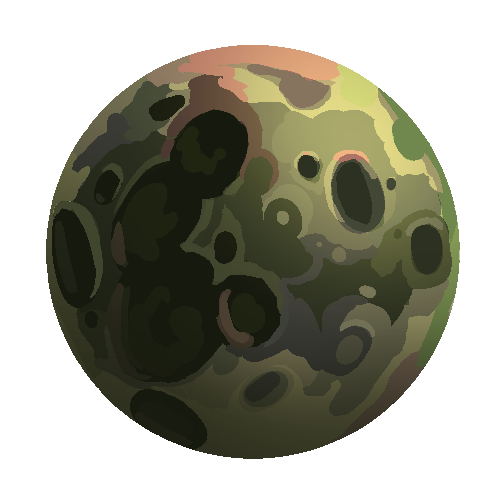
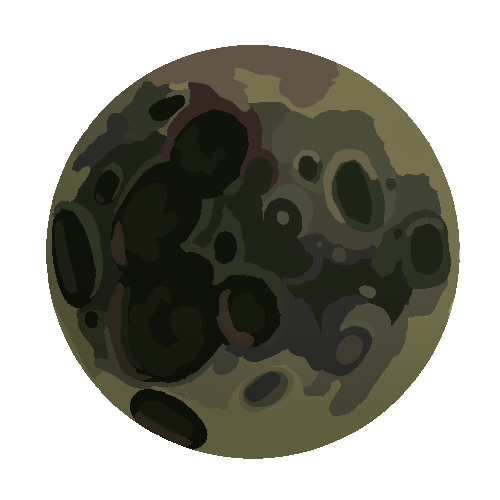
+ Updates to Orator's Sky and Selenic Menu THeme

Changed region(s): [[0.21, 0.09, 0.93, 0.93], [0.09, 0.6, 0.27, 0.84]]

diff --git a/Content/Skies/OratorSky.cs b/Content/Skies/OratorSky.cs
@@ -35,7 +35,9 @@ namespace Windfall.Content.Skies
         public override Color OnTileColor(Color inColor) => Color.Lerp(inColor, Color.AliceBlue * 0.5f, opacity);
         public override void Draw(SpriteBatch spriteBatch, float minDepth, float maxDepth)
         {
-            Color oratorGreen = new(117, 255, 159);            
+            Color oratorGreen = new(117, 255, 159);
+            Vector2 resolutionScale = new(Main.screenWidth / 1366f, Main.screenHeight / 768);
+
             spriteBatch.Draw(TextureAssets.BlackTile.Value, new Rectangle(0, 0, Main.screenWidth * 2, Main.screenHeight * 2), Color.Black * opacity);
 
             if (Main.netMode != NetmodeID.Server)
@@ -59,46 +61,48 @@ namespace Windfall.Content.Skies
 
                 #region Back Clouds
                 float cloudHeight = bgTop + (Main.screenHeight * 1.15f);
-                float cloudScale = 0.45f;
+                float cloudScale = 0.5f * resolutionScale.X;
 
                 Texture2D CloudBack = (Texture2D)ModContent.Request<Texture2D>("Windfall/Assets/Skies/OratorCloudsBack", AssetRequestMode.ImmediateLoad);
-                float backgroundOffset = GetBackgroundOffset(0.1f, CloudBack);
+                float backgroundOffset = GetBackgroundOffset(0.1f);
                 spriteBatch.Draw(CloudBack, new Vector2(GetBoundedX(backgroundOffset, cloudScale), cloudHeight - (450 * cloudScale)), CloudBack.Frame(), Color.Gray * opacity, 0f, new Vector2(CloudBack.Width / 2, CloudBack.Height / 2), cloudScale, SpriteEffects.None, 0f);
                 spriteBatch.Draw(CloudBack, new Vector2(GetBoundedX((backgroundOffset - (CloudBack.Width * (cloudScale))), cloudScale), cloudHeight - (450 * cloudScale)), CloudBack.Frame(), Color.Gray * opacity, 0f, new Vector2(CloudBack.Width / 2, CloudBack.Height / 2), cloudScale, SpriteEffects.None, 0f);
                 spriteBatch.Draw(CloudBack, new Vector2(GetBoundedX((backgroundOffset + (CloudBack.Width * (cloudScale))), cloudScale), cloudHeight - (450 * cloudScale)), CloudBack.Frame(), Color.Gray * opacity, 0f, new Vector2(CloudBack.Width / 2, CloudBack.Height / 2), cloudScale, SpriteEffects.None, 0f);
                 #endregion
 
                 #region Moon
-                Vector2 position = new(Main.screenWidth / 2, bgTop + Main.screenHeight / 1.25f);
+                Vector2 position = new(Main.screenWidth / 2f, bgTop + Main.screenHeight / 1.5f);
                 Texture2D bloomCircle = ModContent.Request<Texture2D>("CalamityMod/Particles/LargeBloom", AssetRequestMode.ImmediateLoad).Value;
 
-                spriteBatch.UseBlendState(BlendState.Additive);
-                Vector2 halfSizeTexture = new(bloomCircle.Width / 2, bloomCircle.Height / 2);
-                spriteBatch.Draw(bloomCircle, position, null, oratorGreen * opacity * ((float)(Math.Sin(counter/ 20D) / 4f + 0.75f)), 0f, bloomCircle.Size() / 2f, 2.8f, SpriteEffects.None, 0f);
+                spriteBatch.End();
+                spriteBatch.Begin(SpriteSortMode.Deferred, BlendState.Additive, SamplerState.LinearClamp, DepthStencilState.None, Main.Rasterizer, null, Main.UIScaleMatrix);
+                spriteBatch.Draw(bloomCircle, position, null, Color.AliceBlue * opacity * ((float)(Math.Sin(counter / 20D) / 4f + 0.75f)), 0f, bloomCircle.Size() / 2f, 2.4f * resolutionScale.X, SpriteEffects.None, 0f);
 
                 Texture2D bloomRing = ModContent.Request<Texture2D>("Windfall/Assets/Skies/OratorMoonBloom2", AssetRequestMode.ImmediateLoad).Value;
-                halfSizeTexture = new(bloomRing.Width / 2, bloomRing.Height / 2);
-                spriteBatch.Draw(bloomRing, position, null, Color.LightCyan * opacity, counter / 100f, halfSizeTexture, 1.6375f, SpriteEffects.None, 0f);
+                Vector2 halfSizeTexture = new(bloomRing.Width / 2, bloomRing.Height / 2);
+                spriteBatch.Draw(bloomRing, position, null, Color.DarkOliveGreen * opacity, counter / 100f, halfSizeTexture, 1.4375f * resolutionScale.X, SpriteEffects.None, 0f);
+                spriteBatch.End();
+                spriteBatch.Begin(SpriteSortMode.Deferred, BlendState.AlphaBlend, SamplerState.LinearClamp, DepthStencilState.None, Main.Rasterizer, null, Main.UIScaleMatrix);
 
-                spriteBatch.UseBlendState(BlendState.NonPremultiplied);
                 Texture2D moon = ModContent.Request<Texture2D>("Windfall/Assets/Skies/OratorMoon", AssetRequestMode.ImmediateLoad).Value;
                 halfSizeTexture = new(moon.Width / 2, moon.Height / 2);
-                spriteBatch.Draw(moon, position, null, Color.White * opacity, 0f, halfSizeTexture, 1.625f, SpriteEffects.None, 0f);
+                spriteBatch.Draw(moon, position, null, Color.White * opacity, 0f, halfSizeTexture, 1.4f * resolutionScale.X, SpriteEffects.None, 0f);
                 #endregion
 
                 #region Front Clouds       
                 /*
-                Texture2D CloudMiddle = (Texture2D)ModContent.Request<Texture2D>("Windfall/Assets/Skies/OratorCloudsMiddle", AssetRequestMode.ImmediateLoad);
-                backgroundOffset = GetBackgroundOffset(0.2f, CloudMiddle);
-                spriteBatch.Draw(CloudMiddle, new Vector2(GetBoundedX(backgroundOffset, cloudScale), cloudHeight), CloudMiddle.Frame(), Color.Gray * opacity, 0f, new Vector2(CloudMiddle.Width / 2, CloudMiddle.Height / 2), cloudScale, SpriteEffects.None, 0f);
-                spriteBatch.Draw(CloudMiddle, new Vector2(GetBoundedX((backgroundOffset - (CloudMiddle.Width * (cloudScale))), cloudScale), cloudHeight), CloudMiddle.Frame(), Color.Gray * opacity, 0f, new Vector2(CloudMiddle.Width / 2, CloudMiddle.Height / 2), cloudScale, SpriteEffects.None, 0f);
-                spriteBatch.Draw(CloudMiddle, new Vector2(GetBoundedX((backgroundOffset + (CloudMiddle.Width * (cloudScale))), cloudScale), cloudHeight), CloudMiddle.Frame(), Color.Gray * opacity, 0f, new Vector2(CloudMiddle.Width / 2, CloudMiddle.Height / 2), cloudScale, SpriteEffects.None, 0f);
-                */
+            Texture2D CloudMiddle = (Texture2D)ModContent.Request<Texture2D>("Windfall/Assets/Skies/OratorCloudsMiddle", AssetRequestMode.ImmediateLoad);
+            backgroundOffset = GetBackgroundOffset(0.2f, CloudMiddle);
+            spriteBatch.Draw(CloudMiddle, new Vector2(GetBoundedX(backgroundOffset, cloudScale), cloudHeight), CloudMiddle.Frame(), Color.Gray, 0f, new Vector2(CloudMiddle.Width / 2, CloudMiddle.Height / 2), cloudScale, SpriteEffects.None, 0f);
+            spriteBatch.Draw(CloudMiddle, new Vector2(GetBoundedX((backgroundOffset - (CloudMiddle.Width * (cloudScale))), cloudScale), cloudHeight), CloudMiddle.Frame(), Color.Gray, 0f, new Vector2(CloudMiddle.Width / 2, CloudMiddle.Height / 2), cloudScale, SpriteEffects.None, 0f);
+            spriteBatch.Draw(CloudMiddle, new Vector2(GetBoundedX((backgroundOffset + (CloudMiddle.Width * (cloudScale))), cloudScale), cloudHeight), CloudMiddle.Frame(), Color.Gray, 0f, new Vector2(CloudMiddle.Width / 2, CloudMiddle.Height / 2), cloudScale, SpriteEffects.None, 0f);
+            */
                 Texture2D CloudFront = (Texture2D)ModContent.Request<Texture2D>("Windfall/Assets/Skies/OratorCloudsFront", AssetRequestMode.ImmediateLoad);
-                backgroundOffset = GetBackgroundOffset(0.3f, CloudFront);
-                spriteBatch.Draw(CloudFront, new Vector2(GetBoundedX(backgroundOffset, cloudScale), cloudHeight - (190 * cloudScale)), CloudFront.Frame(), Color.Gray * opacity, 0f, new Vector2(CloudFront.Width / 2, CloudFront.Height / 2), cloudScale, SpriteEffects.None, 0f);
-                spriteBatch.Draw(CloudFront, new Vector2(GetBoundedX((backgroundOffset - (CloudFront.Width * (cloudScale))), cloudScale), cloudHeight - (190 * cloudScale)), CloudFront.Frame(), Color.Gray * opacity, 0f, new Vector2(CloudFront.Width / 2, CloudFront.Height / 2), cloudScale, SpriteEffects.None, 0f);
-                spriteBatch.Draw(CloudFront, new Vector2(GetBoundedX((backgroundOffset + (CloudFront.Width * (cloudScale))), cloudScale), cloudHeight - (190 * cloudScale)), CloudFront.Frame(), Color.Gray * opacity, 0f, new Vector2(CloudFront.Width / 2, CloudFront.Height / 2), cloudScale, SpriteEffects.None, 0f);
+                backgroundOffset = GetBackgroundOffset(0.3f);
+                //cloudHeight = Main.screenHeight / -3.5f + (Main.screenHeight * 1.25f);
+                spriteBatch.Draw(CloudFront, new Vector2(GetBoundedX(backgroundOffset, cloudScale), cloudHeight - (250 * cloudScale)), CloudFront.Frame(), Color.Gray * opacity, 0f, new Vector2(CloudFront.Width / 2, CloudFront.Height / 2), cloudScale, SpriteEffects.None, 0f);
+                spriteBatch.Draw(CloudFront, new Vector2(GetBoundedX(backgroundOffset - (CloudFront.Width * cloudScale), cloudScale), cloudHeight - (250 * cloudScale)), CloudFront.Frame(), Color.Gray * opacity, 0f, new Vector2(CloudFront.Width / 2, CloudFront.Height / 2), cloudScale, SpriteEffects.None, 0f);
+                spriteBatch.Draw(CloudFront, new Vector2(GetBoundedX(backgroundOffset + (CloudFront.Width * cloudScale), cloudScale), cloudHeight - (250 * cloudScale)), CloudFront.Frame(), Color.Gray * opacity, 0f, new Vector2(CloudFront.Width / 2, CloudFront.Height / 2), cloudScale, SpriteEffects.None, 0f);
                 #endregion
             }
         }
@@ -125,11 +129,13 @@ namespace Windfall.Content.Skies
             counter++;
         }
         public override float GetCloudAlpha() => 1f;
-        private float GetBackgroundOffset(float parallaxMultiplier, Texture2D tex)
+        private float GetBackgroundOffset(float parallaxMultiplier)
         {
             windOffset += (Main.windSpeedCurrent);
             return -100000 - (((Main.LocalPlayer.Center.X / 10) - windOffset) * parallaxMultiplier);
         }
-        private static float GetBoundedX(float initialX, float scale) => (initialX % (Main.screenWidth * (3.425f * scale)) + (Main.screenWidth * (2.8f * scale)));
+        private static float GetBoundedX(float initialX, float scale) => (initialX % (Main.screenWidth * (2.435f * scale)) + (Main.screenWidth * (1.9f * scale)));
+        //        private static float GetBoundedX(float initialX, float scale) => (initialX % (Main.screenWidth * (3.425f * scale)) + (Main.screenWidth * (2.8f * scale)));
+
     }
 }

diff --git a/Content/UI/MenuThemes/Selenic/SelenicMenu.cs b/Content/UI/MenuThemes/Selenic/SelenicMenu.cs
@@ -1,14 +1,4 @@
-using System;
-using System.Collections.Generic;
-using System.Diagnostics.Metrics;
-using System.Linq;
-using System.Text;
-using System.Threading.Tasks;
-using CalamityMod.MainMenu;
-using Windfall.Content.NPCs.Bosses.Orator;
-using Windfall.Content.UI.BossBars;
-
-namespace Windfall.Content.UI.MenuThemes.Selenic
+namespace Windfall.Content.UI.MenuThemes.Selenic
 {
     public class SelenicMenu : ModMenu
     {
@@ -26,11 +16,11 @@ namespace Windfall.Content.UI.MenuThemes.Selenic
 
         public override bool PreDrawLogo(SpriteBatch spriteBatch, ref Vector2 logoDrawCenter, ref float logoRotation, ref float logoScale, ref Color drawColor)
         {
+            Vector2 resolutionScale = new(Main.screenWidth / 1366f, Main.screenHeight / 768);
+
             #region Orator Background Stuffs
             Color oratorGreen = new(117, 255, 159);
             spriteBatch.Draw(TextureAssets.BlackTile.Value, new Rectangle(0, 0, Main.screenWidth * 2, Main.screenHeight * 2), Color.Black);
-
-            float bgTop = Main.screenHeight / -6f;
 
             #region Stars
             for (int i = 0; i < Main.star.Length; i++)
@@ -41,37 +31,40 @@ namespace Windfall.Content.UI.MenuThemes.Selenic
 
                 Texture2D t2D = TextureAssets.Star[star.type].Value;
                 Vector2 origin = new(t2D.Width * 0.5f, t2D.Height * 0.5f);
-                Vector2 pos = new(star.position.X + origin.X, star.position.Y + origin.Y + bgTop);
+                Vector2 pos = new(star.position.X + origin.X, star.position.Y + origin.Y);
                 spriteBatch.Draw(t2D, pos, new Rectangle(0, 0, t2D.Width, t2D.Height), Color.Yellow * star.twinkle, star.rotation, origin, star.scale * star.twinkle, SpriteEffects.None, 0f);
             }
             #endregion
 
             #region Back Clouds
-            float cloudHeight = bgTop * 2 + (Main.screenHeight * 1.25f);
-            float cloudScale = 0.45f;
+
+            float cloudHeight = Main.screenHeight / -3.5f + (Main.screenHeight * 1.25f);
+            float cloudScale = 0.5f * resolutionScale.X;
 
             Texture2D CloudBack = (Texture2D)ModContent.Request<Texture2D>("Windfall/Assets/Skies/OratorCloudsBack", AssetRequestMode.ImmediateLoad);
-            float backgroundOffset = GetBackgroundOffset(0.1f, CloudBack);
-            spriteBatch.Draw(CloudBack, new Vector2(GetBoundedX(backgroundOffset, cloudScale), cloudHeight - (450 * cloudScale)), CloudBack.Frame(), Color.Gray, 0f, new Vector2(CloudBack.Width / 2, CloudBack.Height / 2), cloudScale, SpriteEffects.None, 0f);
-            spriteBatch.Draw(CloudBack, new Vector2(GetBoundedX((backgroundOffset - (CloudBack.Width * (cloudScale))), cloudScale), cloudHeight - (450 * cloudScale)), CloudBack.Frame(), Color.Gray, 0f, new Vector2(CloudBack.Width / 2, CloudBack.Height / 2), cloudScale, SpriteEffects.None, 0f);
-            spriteBatch.Draw(CloudBack, new Vector2(GetBoundedX((backgroundOffset + (CloudBack.Width * (cloudScale))), cloudScale), cloudHeight - (450 * cloudScale)), CloudBack.Frame(), Color.Gray, 0f, new Vector2(CloudBack.Width / 2, CloudBack.Height / 2), cloudScale, SpriteEffects.None, 0f);
+            float backgroundOffset = GetBackgroundOffset(0.1f);
+            spriteBatch.Draw(CloudBack, new Vector2(GetBoundedX(backgroundOffset,                                  cloudScale), cloudHeight - (450 * cloudScale)), CloudBack.Frame(), Color.Gray, 0f, new Vector2(CloudBack.Width / 2, CloudBack.Height / 2), cloudScale, SpriteEffects.None, 0f);
+            spriteBatch.Draw(CloudBack, new Vector2(GetBoundedX(backgroundOffset - (CloudBack.Width * cloudScale), cloudScale), cloudHeight - (450 * cloudScale)), CloudBack.Frame(), Color.Gray, 0f, new Vector2(CloudBack.Width / 2, CloudBack.Height / 2), cloudScale, SpriteEffects.None, 0f);
+            spriteBatch.Draw(CloudBack, new Vector2(GetBoundedX(backgroundOffset + (CloudBack.Width * cloudScale), cloudScale), cloudHeight - (450 * cloudScale)), CloudBack.Frame(), Color.Gray, 0f, new Vector2(CloudBack.Width / 2, CloudBack.Height / 2), cloudScale, SpriteEffects.None, 0f);
             #endregion
 
             #region Moon
-            Vector2 position = new(Main.screenWidth / 2, bgTop + Main.screenHeight / 1.25f);
+            Vector2 position = new(Main.screenWidth / 2f, Main.screenHeight / 1.8f);
             Texture2D bloomCircle = ModContent.Request<Texture2D>("CalamityMod/Particles/LargeBloom", AssetRequestMode.ImmediateLoad).Value;
 
-            spriteBatch.UseBlendState(BlendState.Additive);
-            spriteBatch.Draw(bloomCircle, position, null, oratorGreen * ((float)(Math.Sin(counter / 20D) / 4f + 0.75f)), 0f, bloomCircle.Size() / 2f, 2.5f + 0.3f, SpriteEffects.None, 0f);
+            spriteBatch.End();
+            spriteBatch.Begin(SpriteSortMode.Deferred, BlendState.Additive, SamplerState.LinearClamp, DepthStencilState.None, Main.Rasterizer, null, Main.UIScaleMatrix);
+            spriteBatch.Draw(bloomCircle, position, null, Color.AliceBlue * ((float)(Math.Sin(counter / 20D) / 4f + 0.75f)), 0f, bloomCircle.Size() / 2f, 2.4f * resolutionScale.X, SpriteEffects.None, 0f);
 
             Texture2D bloomRing = ModContent.Request<Texture2D>("Windfall/Assets/Skies/OratorMoonBloom2", AssetRequestMode.ImmediateLoad).Value;
             Vector2 halfSizeTexture = new(bloomRing.Width / 2, bloomRing.Height / 2);
-            spriteBatch.Draw(bloomRing, position, null, Color.LightCyan, counter / 100f, halfSizeTexture, 1.5f + 0.1375f, SpriteEffects.None, 0f);
+            spriteBatch.Draw(bloomRing, position, null, Color.DarkOliveGreen, counter / 100f, halfSizeTexture, 1.4375f * resolutionScale.X, SpriteEffects.None, 0f);
+            spriteBatch.End();
+            spriteBatch.Begin(SpriteSortMode.Deferred, BlendState.AlphaBlend, SamplerState.LinearClamp, DepthStencilState.None, Main.Rasterizer, null, Main.UIScaleMatrix);
 
-            spriteBatch.UseBlendState(BlendState.NonPremultiplied);
             Texture2D moon = ModContent.Request<Texture2D>("Windfall/Assets/Skies/OratorMoon", AssetRequestMode.ImmediateLoad).Value;
             halfSizeTexture = new(moon.Width / 2, moon.Height / 2);
-            spriteBatch.Draw(moon, position, null, Color.White, 0f, halfSizeTexture, 1.5f + 0.125f, SpriteEffects.None, 0f);
+            spriteBatch.Draw(moon, position, null, Color.White, 0f, halfSizeTexture, 1.4f * resolutionScale.X, SpriteEffects.None, 0f);
             #endregion
 
             #region Front Clouds       
@@ -83,10 +76,11 @@ namespace Windfall.Content.UI.MenuThemes.Selenic
             spriteBatch.Draw(CloudMiddle, new Vector2(GetBoundedX((backgroundOffset + (CloudMiddle.Width * (cloudScale))), cloudScale), cloudHeight), CloudMiddle.Frame(), Color.Gray, 0f, new Vector2(CloudMiddle.Width / 2, CloudMiddle.Height / 2), cloudScale, SpriteEffects.None, 0f);
             */
             Texture2D CloudFront = (Texture2D)ModContent.Request<Texture2D>("Windfall/Assets/Skies/OratorCloudsFront", AssetRequestMode.ImmediateLoad);
-            backgroundOffset = GetBackgroundOffset(0.3f, CloudFront);
-            spriteBatch.Draw(CloudFront, new Vector2(GetBoundedX(backgroundOffset, cloudScale), cloudHeight - (190 * cloudScale)), CloudFront.Frame(), Color.Gray, 0f, new Vector2(CloudFront.Width / 2, CloudFront.Height / 2), cloudScale, SpriteEffects.None, 0f);
-            spriteBatch.Draw(CloudFront, new Vector2(GetBoundedX((backgroundOffset - (CloudFront.Width * (cloudScale))), cloudScale), cloudHeight - (190 * cloudScale)), CloudFront.Frame(), Color.Gray, 0f, new Vector2(CloudFront.Width / 2, CloudFront.Height / 2), cloudScale, SpriteEffects.None, 0f);
-            spriteBatch.Draw(CloudFront, new Vector2(GetBoundedX((backgroundOffset + (CloudFront.Width * (cloudScale))), cloudScale), cloudHeight - (190 * cloudScale)), CloudFront.Frame(), Color.Gray, 0f, new Vector2(CloudFront.Width / 2, CloudFront.Height / 2), cloudScale, SpriteEffects.None, 0f);
+            backgroundOffset = GetBackgroundOffset(0.3f);
+            cloudHeight = Main.screenHeight / -3.5f + (Main.screenHeight * 1.25f);
+            spriteBatch.Draw(CloudFront, new Vector2(GetBoundedX(backgroundOffset, cloudScale), cloudHeight - (250 * cloudScale)), CloudFront.Frame(), Color.Gray, 0f, new Vector2(CloudFront.Width / 2, CloudFront.Height / 2), cloudScale, SpriteEffects.None, 0f);
+            spriteBatch.Draw(CloudFront, new Vector2(GetBoundedX(backgroundOffset - (CloudFront.Width * cloudScale), cloudScale), cloudHeight - (250 * cloudScale)), CloudFront.Frame(), Color.Gray, 0f, new Vector2(CloudFront.Width / 2, CloudFront.Height / 2), cloudScale, SpriteEffects.None, 0f);
+            spriteBatch.Draw(CloudFront, new Vector2(GetBoundedX(backgroundOffset + (CloudFront.Width * cloudScale), cloudScale), cloudHeight - (250 * cloudScale)), CloudFront.Frame(), Color.Gray, 0f, new Vector2(CloudFront.Width / 2, CloudFront.Height / 2), cloudScale, SpriteEffects.None, 0f);
             #endregion
 
             counter++;
@@ -107,10 +101,10 @@ namespace Windfall.Content.UI.MenuThemes.Selenic
             spriteBatch.Begin(SpriteSortMode.Deferred, BlendState.AlphaBlend, SamplerState.LinearClamp, DepthStencilState.None, Main.Rasterizer, null, Main.UIScaleMatrix);
             return false;
         }
-        private float GetBackgroundOffset(float parallaxMultiplier, Texture2D tex)
+        private float GetBackgroundOffset(float parallaxMultiplier)
         {
             return -100000 - (counter * parallaxMultiplier);
         }
-        private static float GetBoundedX(float initialX, float scale) => (initialX % (Main.screenWidth * (3.425f * scale)) + (Main.screenWidth * (2.8f * scale)));
+        private static float GetBoundedX(float initialX, float scale) => (initialX % (Main.screenWidth * (2.9265f * scale)) + (Main.screenWidth * (2.3f * scale)));
     }
 }
